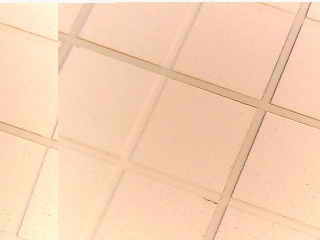
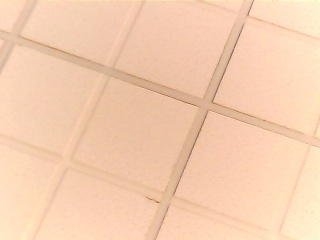
Testing dual cameras

diff --git a/Code/Testing/4_Camera/templates/index.html b/Code/Testing/4_Camera/templates/index.html
@@ -4,6 +4,7 @@
   </head>
   <body>
     <h1>Video Streaming Demonstration</h1>
-    <img src="{{ url_for('video_feed') }}">
+    <img src="{{ url_for('video_feed(0)') }}">
+    <img src="{{ url_for('video_feed(1)') }}">
   </body>
 </html>

diff --git a/Code/Testing/4_Camera/app.py b/Code/Testing/4_Camera/app.py
@@ -13,16 +13,16 @@ def index():
 def gen(camera_id):
     """Video streaming generator function."""
     while True:
-        os.system("uvccapture -v -m -oPic.jpg")
+        os.system("uvccapture -v -m -d/dev/video"+str(camera_id)+" -ovideo"+str(camera_id)+".jpg")
         frame = open('Pic.jpg', 'rb').read()
         yield (b'--frame\r\n'
                b'Content-Type: image/jpeg\r\n\r\n' + frame + b'\r\n')
 
 
 @app.route('/video_feed')
-def video_feed():
+def video_feed(index=0):
     """Video streaming route. Put this in the src attribute of an img tag."""
-    return Response(gen(1),
+    return Response(gen(index),
                     mimetype='multipart/x-mixed-replace; boundary=frame')
 
 
